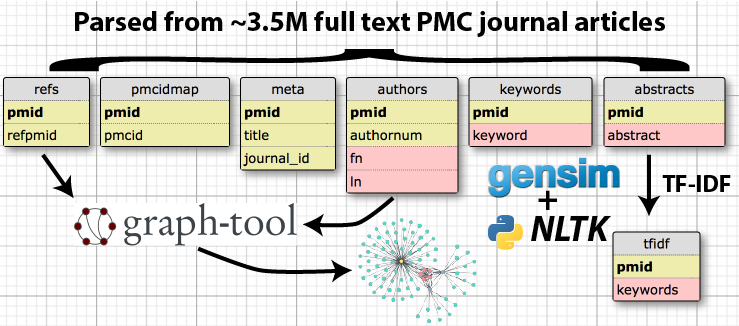
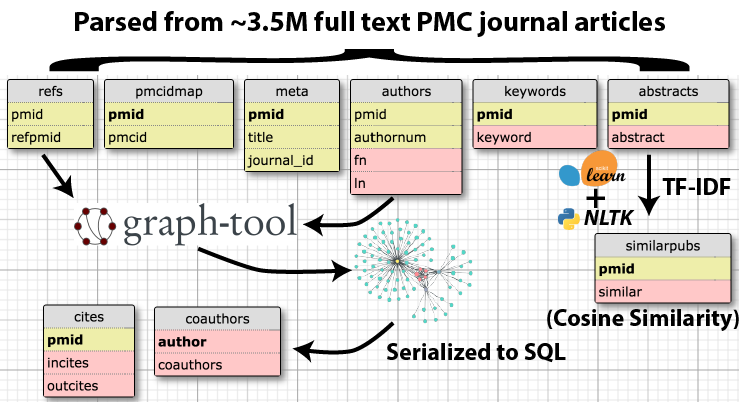
updates to process section

diff --git a/index.html b/index.html
@@ -111,13 +111,14 @@
                 <h3>Step 1: Scraping, parsing and munging</h3>
                 <p>3.5 million full text articles collected from PubMed Central, saved using gzip to keep data size manageable. Then, using a parser created primarily using Beautiful Soup, data is read from each article and stored into SQL tables, keying the data against the PMIDs which uniquely identify the articles.</p>
                 <img src="img/sqltables-fig.png" alt="SQL tables"  style = "margin-bottom: 0.5cm">
-                <h3>Step 2: Suggested keyword generation (TF-IDF)</h3>
-                <p>The gensim python library was used to construct the TF-IDF model since the gensim library is able to process data chunk by chunk rather than all at once (the data set is far too large for scikit learn). Stopwords and words that only occurred once in a document were excluded from the analysis. After building the dictionary for the entire corpus, the model was run on each document and the top scoring words saved to a new SQL table for easy retrieval.</p>
-                <h3>Step 3: Citation and co-authorship network analysis</h3>
+                <h3>Step 2: Citation and co-authorship network analysis</h3>
                 <p>The graph-tool python was used to construct two graph networks, since the networks are far too large to load into memory with a tool like NetworkX. 
                 <p>The directed citation graph network has nodes which represent publications and the directed edges which connect publications to the papers they cite. This network contains 7.7 million nodes and 31 million edges. This number is larger than the number of papers parsed (3.5M) because many citations are to publications which are not open access, therefore my parser creates a target node and edge linking to publications which are not contained in my dataset.</p>
                 <p>The undirected co-authorship graph network has nodes representing authors and edges indicating that they have appeared on a publication together. The network contains 2.4 million nodes and 210 million edges.</p>
-
+                <p>The graph network was then serialized to SQL so that it can be interactively querried in the web app without loading the network into memory</p>
+                <h3>Step 3: Related articles generation (TF-IDF + Cosine Similarity)</h3>
+                <p>The sklearn python library was used to construct a TF-IDF model of the abstracts in the corpus, using stopwords provided by NLTK. After constructing the TF-IDF model, each article's cosine similarity with every other article was evaluated and ranked in descending order to suggest related articles to the user. </p>
+                <p>Due to the high computational cost of the calculation, this computation was only performed for the ~1000 articles that the webapp randomly choses between when the user clicks the random button.</p>
             </div>
         </div>
     </section>
@@ -137,7 +138,7 @@
                         </div>
                         <div style = "float: right; width:380px;">
                             <img src = "img/outcites.svg" alt = "Out Citations" style="width:380px"/>
-                            <p style="font-size : 120%;">Outgoing Citations: As expected, there is a peak with the most common number of citations (~25), tailing off in either direction</p>
+                            <p style="font-size : 120%;">Outgoing Citations: As expected, there is a peak at the most common number of citations (~25), tailing off in either direction</p>
                         </div>
                     </div>
                 </div>
